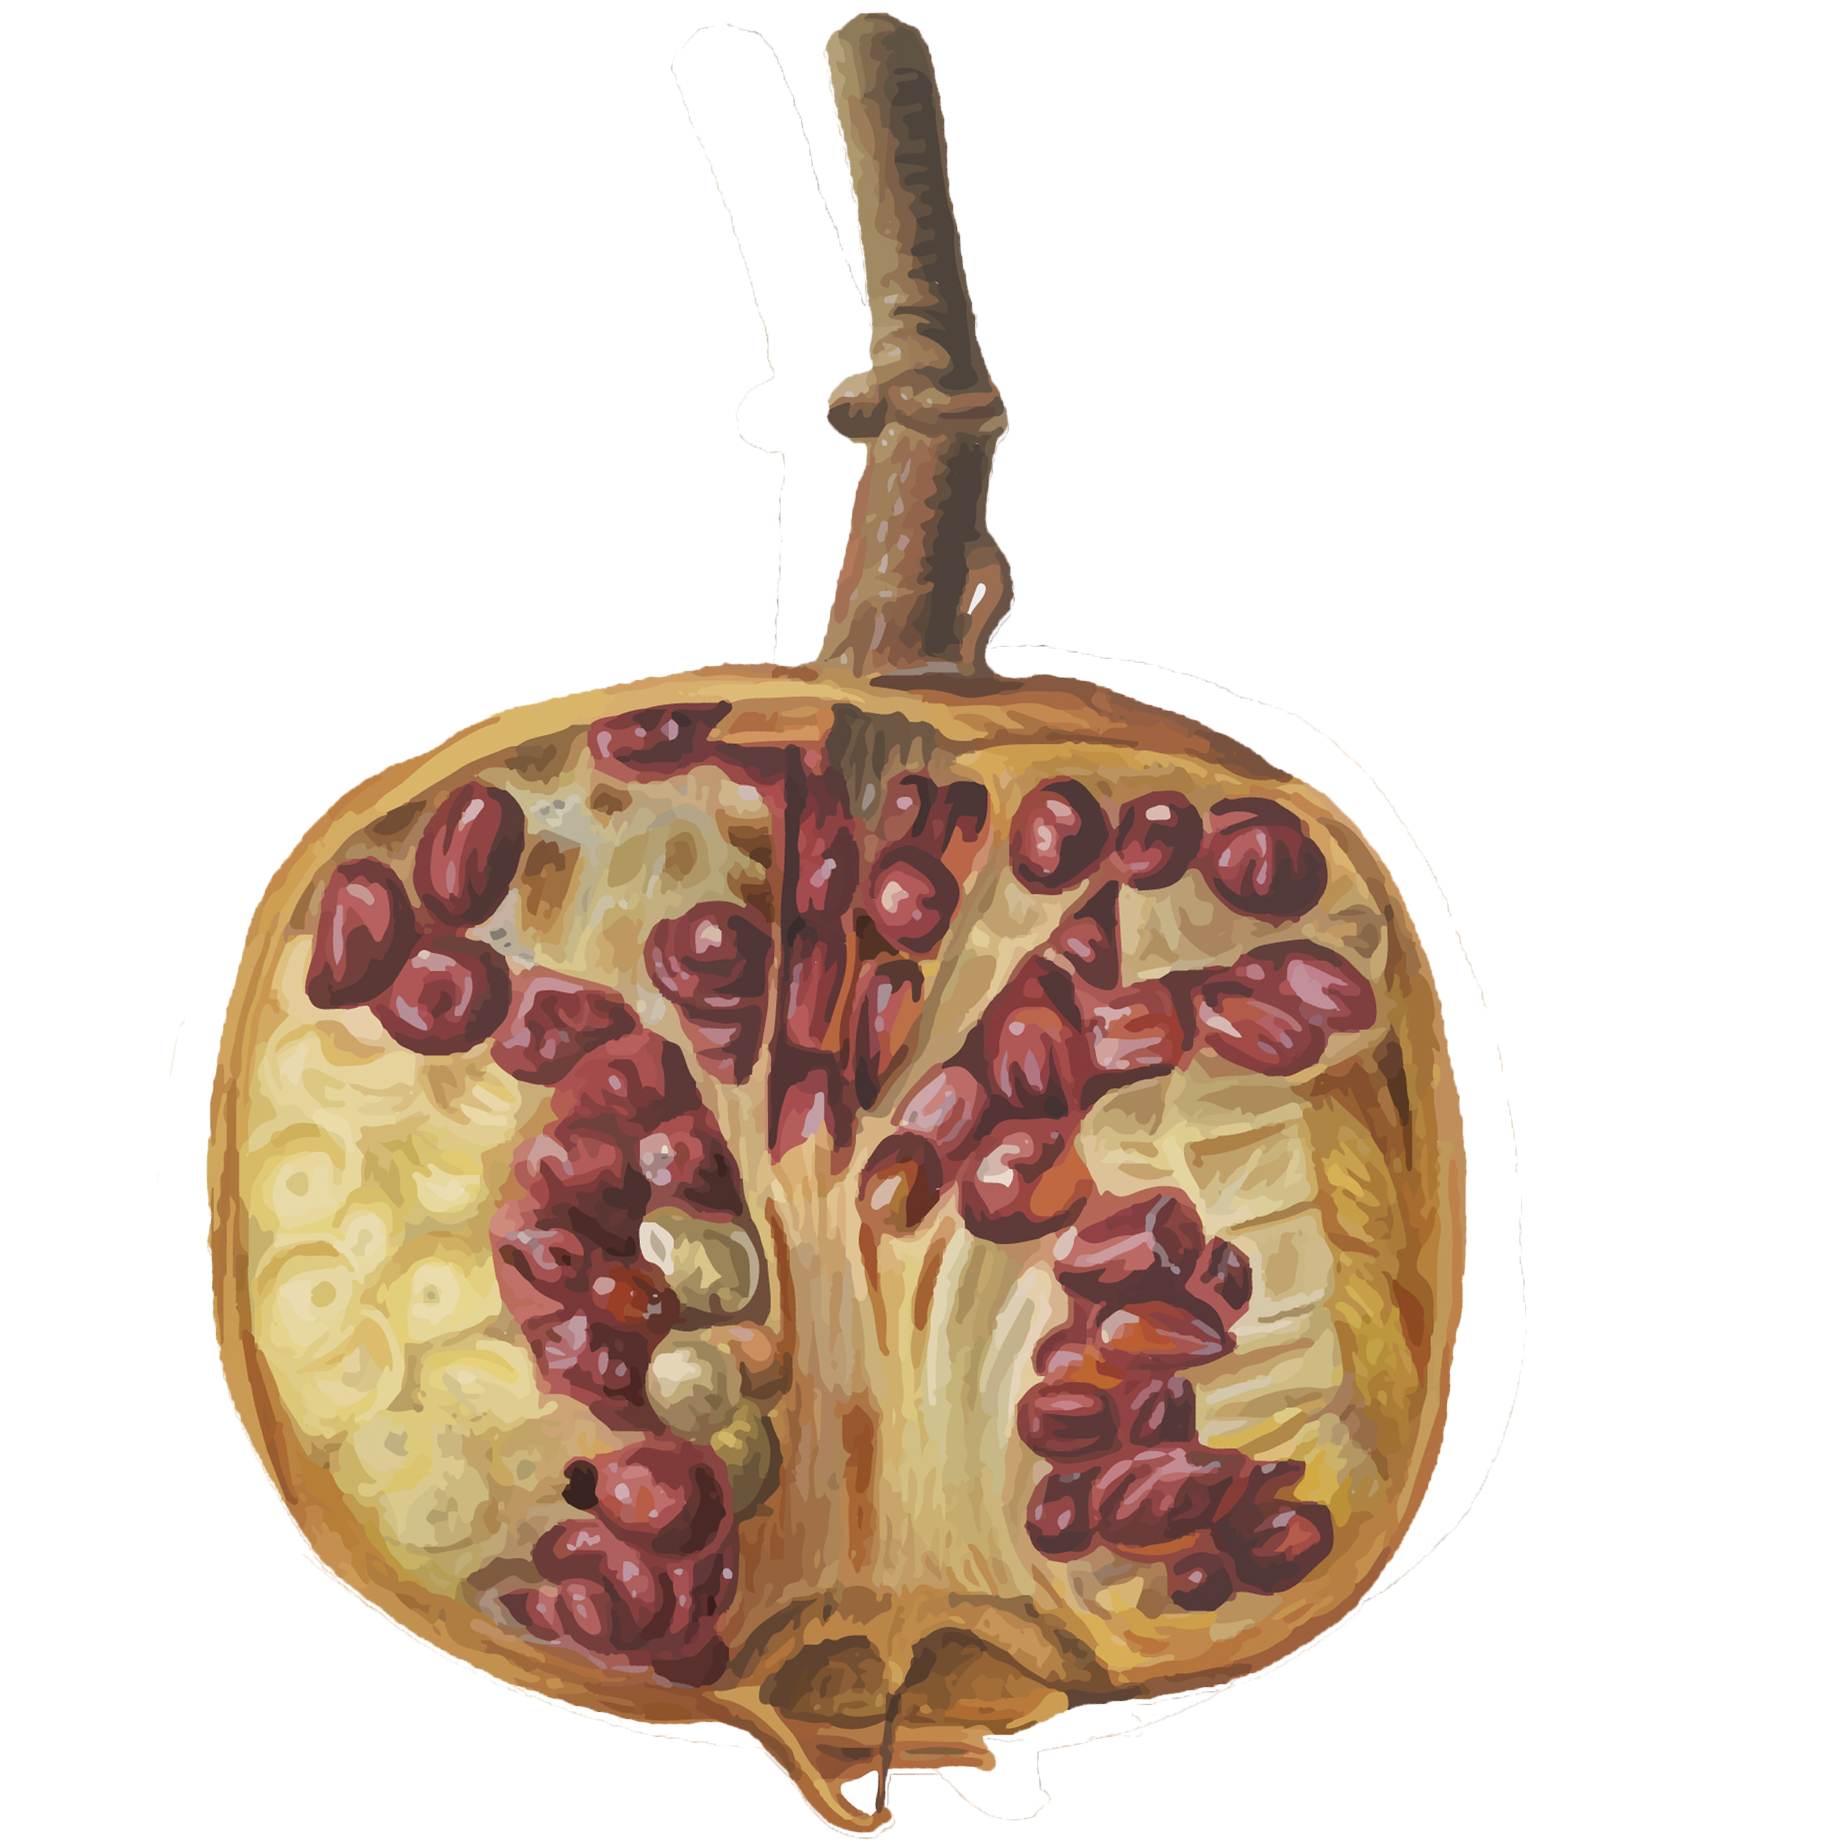
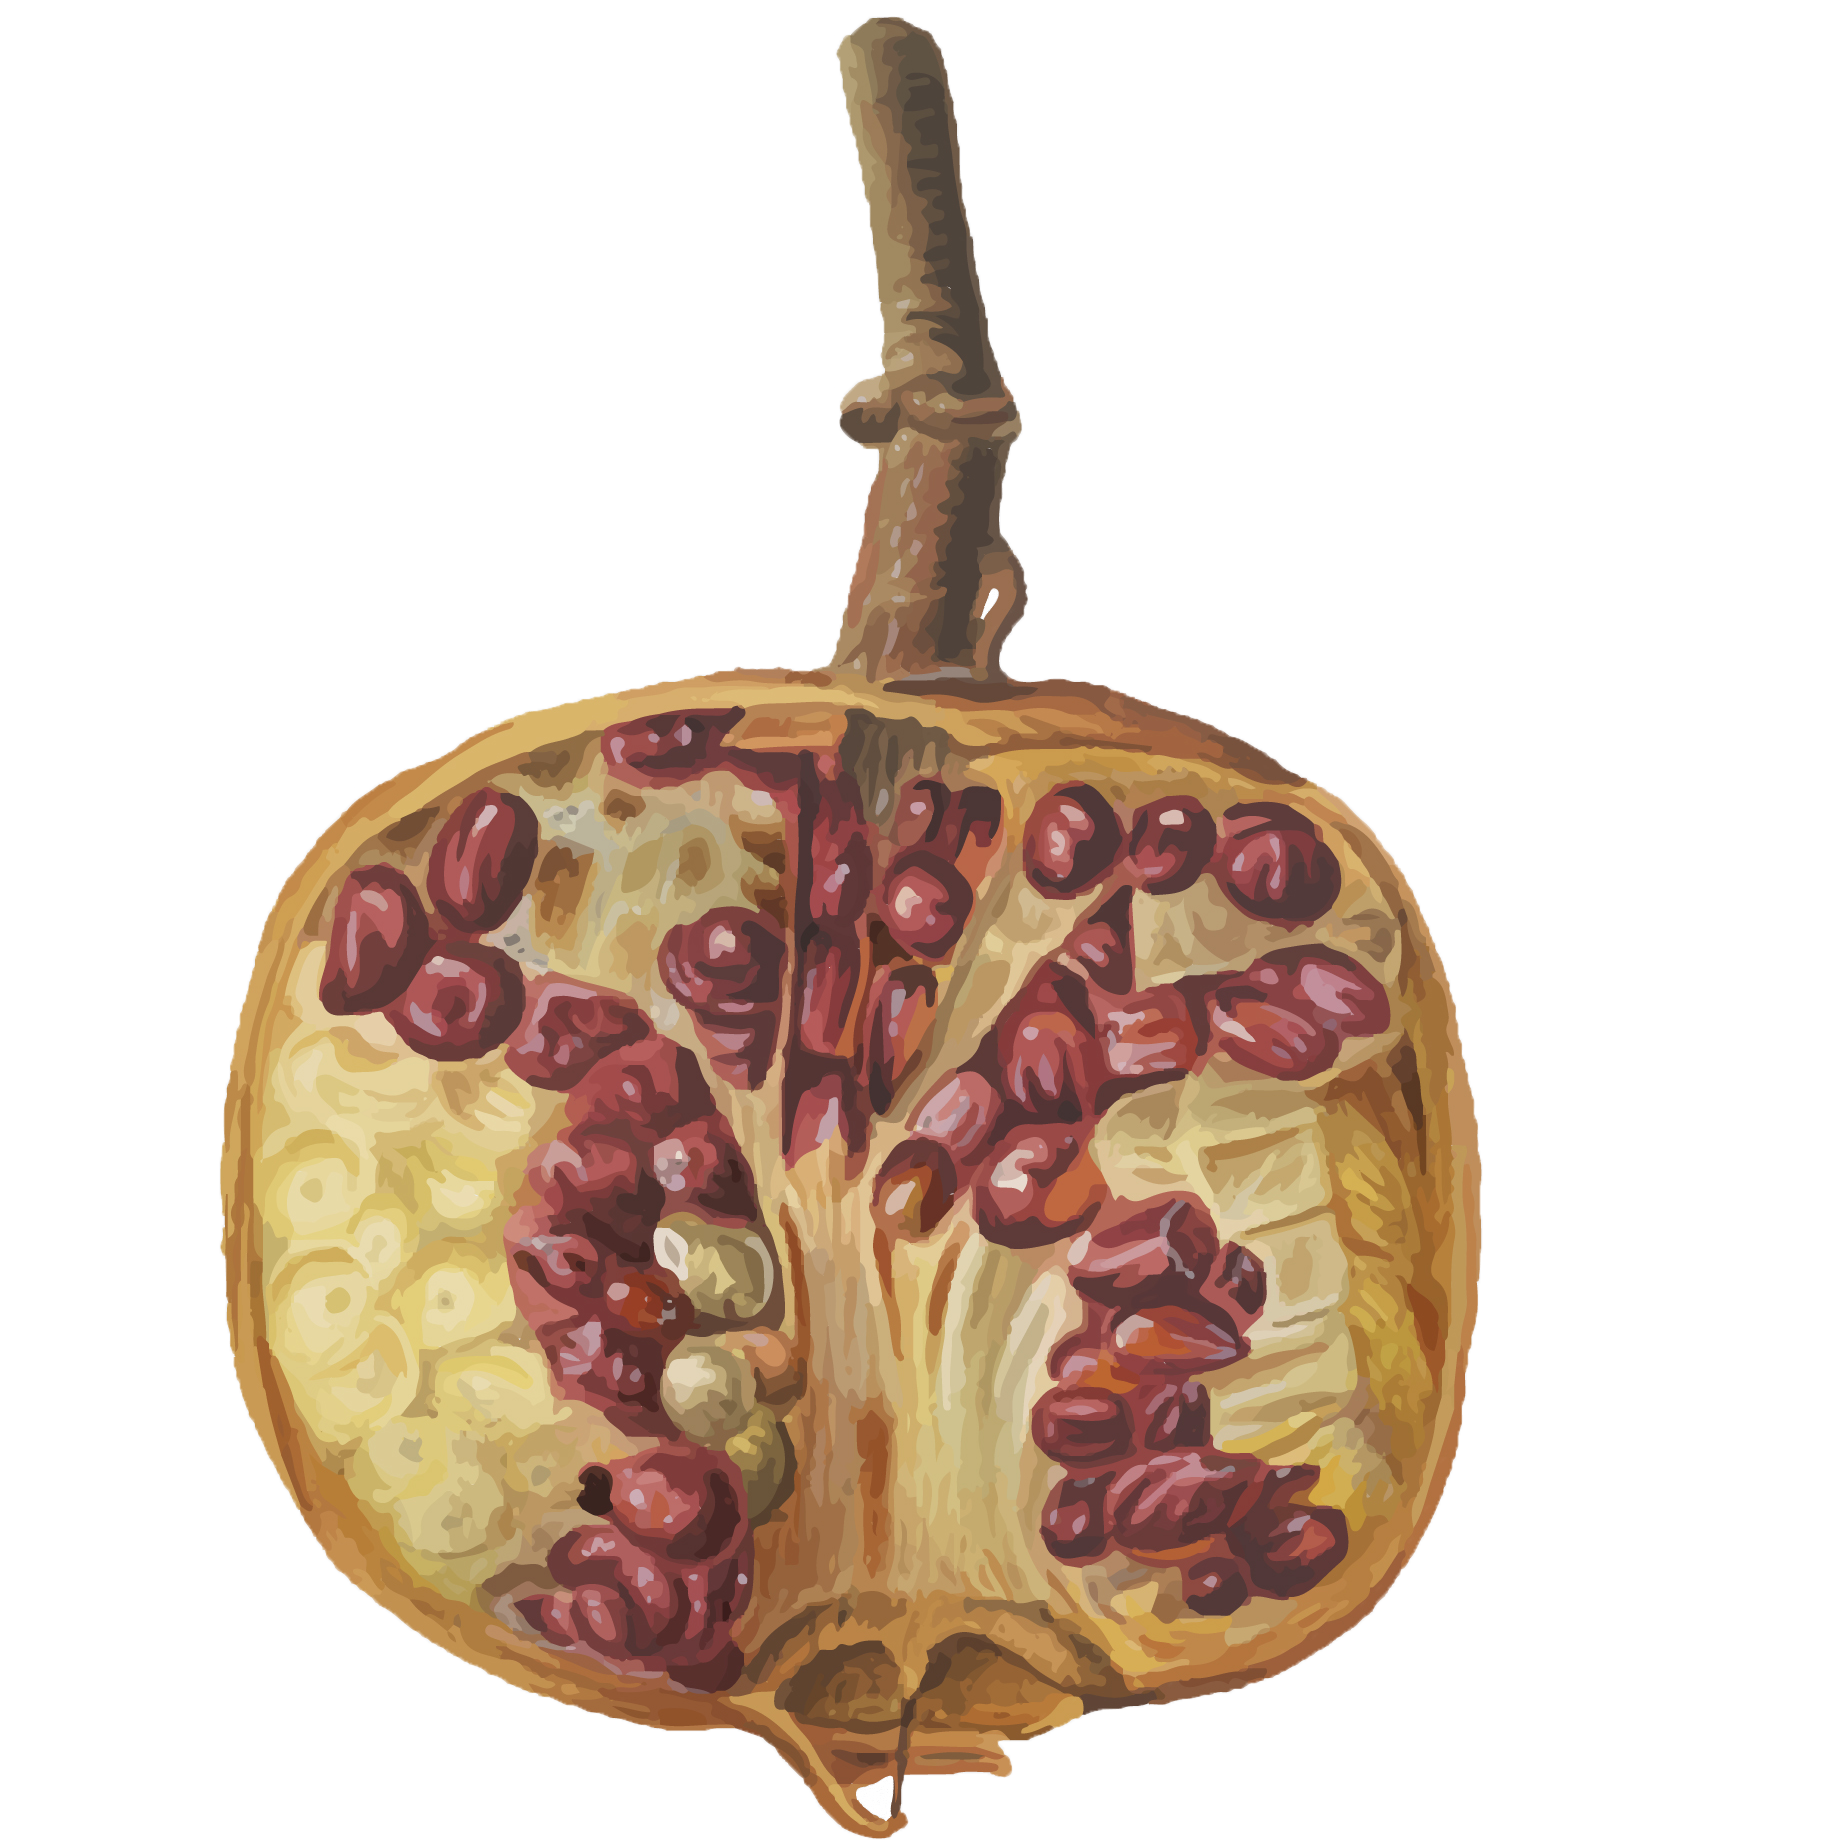
fixed pomegranate front pic

Changed region(s): [[0.0928, 0.0, 0.8046, 1.0]]

diff --git a/index.html b/index.html
@@ -95,7 +95,7 @@
           </div>
         </div>
         <div class="col-lg-6 order-1 order-lg-2 hero-img" data-aos="fade-left" data-aos-delay="200">
-          <img src="assets/img/pmghead.png" class="img-fluid animated" alt="">
+          <img src="assets/img/pmgfull.png" class="img-fluid animated" alt="">
         </div>
       </div>
     </div>
@@ -179,7 +179,7 @@
 
         <div class="row">
           <div class="image col-xl-5 d-flex align-items-stretch justify-content-center justify-content-xl-start" data-aos="fade-right" data-aos-delay="150">
-            <img src="assets/img/pmgfront.png" alt="" class="img-fluid">
+            <img src="assets/img/pmgfront_new.png" alt="" class="img-fluid pmgfront">
           </div>
 
           <div class="col-xl-7 d-flex align-items-stretch pt-4 pt-xl-0" data-aos="fade-left" data-aos-delay="300">

diff --git a/assets/css/style.css b/assets/css/style.css
@@ -651,6 +651,11 @@ section {
   text-decoration: none;
 }
 
+/* Pomegranate front image */
+.pmgfront {
+  rotate: -20deg;
+}
+
 /*--------------------------------------------------------------
 # Counts
 --------------------------------------------------------------*/
